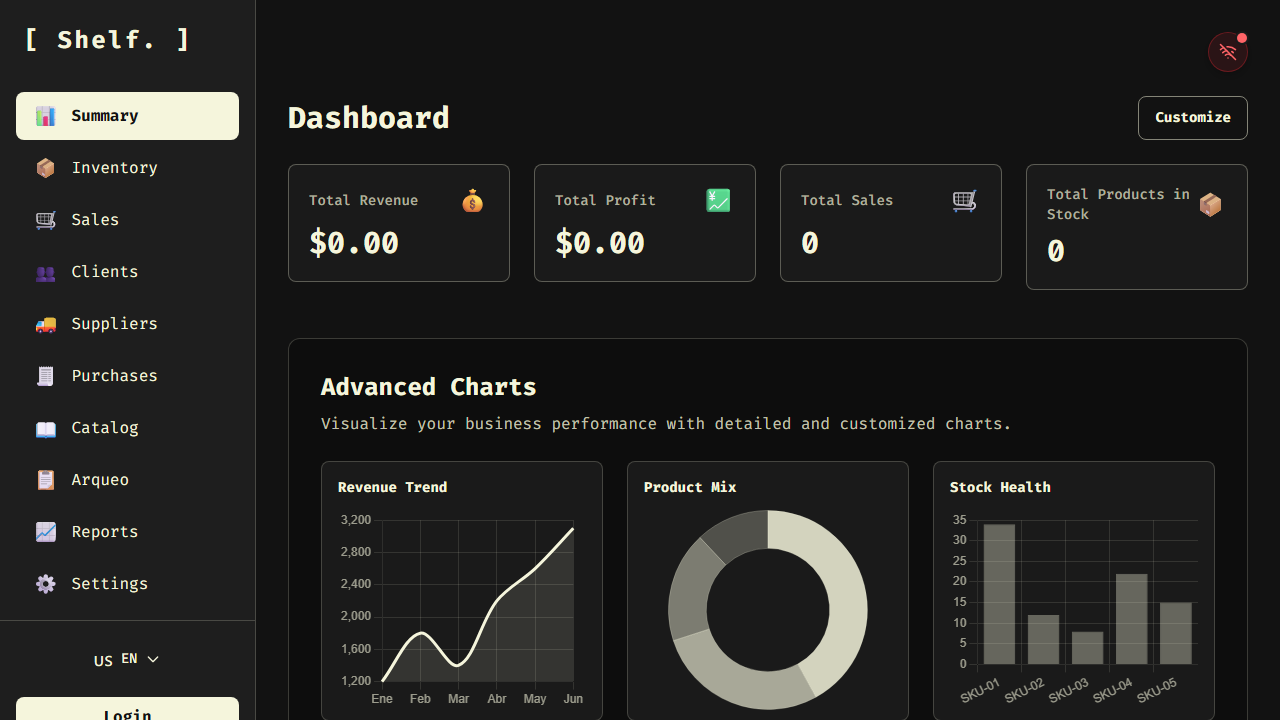
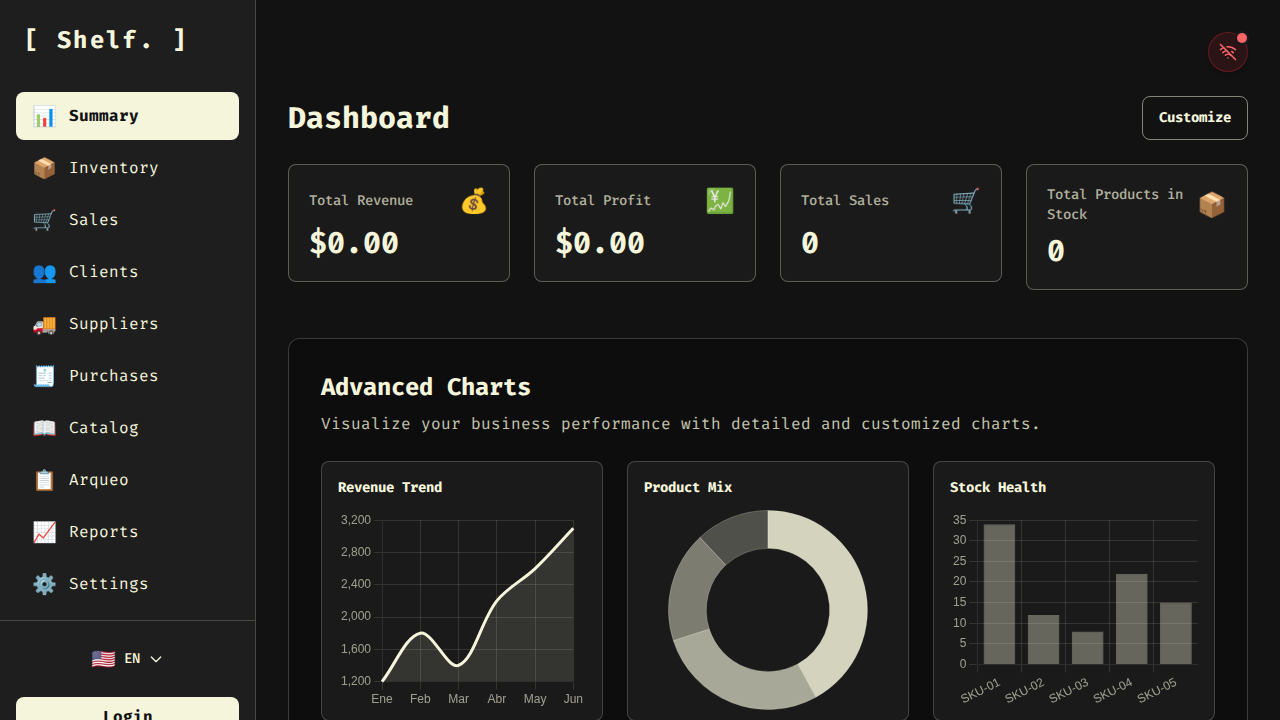
[P2P] Fix destructive SYNC_STATE merge + merge conflicts (#124, #125)
Final merge: smart merge using timestamp-based last-writer-wins + batch operations/sales CRDT sync + isSyncInitialized guard.

diff --git a/apps/shelf-inventory/context/AppContext.tsx b/apps/shelf-inventory/context/AppContext.tsx
@@ -93,6 +93,30 @@ const enrich = (state: AppState, item: any) => ({
   ...item,
 });
 
+const getTimestamp = (item: any): number => {
+  const ts = item.updatedAt || item.timestamp || item.lastSeen || 0;
+  return ts ? new Date(ts).getTime() : 0;
+};
+
+const mergeCollections = <T extends { id: string }>(local: T[], remote: T[] | undefined): T[] => {
+  if (!remote || remote.length === 0) return local;
+  if (local.length === 0) return remote;
+
+  const map = new Map<string, T>();
+  for (const item of local) {
+    map.set(item.id, item);
+  }
+
+  for (const remoteItem of remote) {
+    const localItem = map.get(remoteItem.id);
+    if (!localItem || getTimestamp(remoteItem) > getTimestamp(localItem)) {
+      map.set(remoteItem.id, remoteItem);
+    }
+  }
+
+  return Array.from(map.values());
+};
+
 const appReducer = (state: AppState, action: Action): AppState => {
   let newState: AppState;
 
@@ -345,15 +369,23 @@ const appReducer = (state: AppState, action: Action): AppState => {
       };
     }
 
-    case 'SYNC_STATE':
-      if (action.payload.auditLogs) {
-        console.log(
-          '[DEBUG] SYNC_STATE payload.auditLogs:',
-          action.payload.auditLogs.length,
-          action.payload.auditLogs.map((l: any) => l.action),
-        );
-      }
-      return { ...state, ...action.payload };
+    case 'SYNC_STATE': {
+      const p = action.payload;
+      return {
+        ...state,
+        products: mergeCollections(state.products, p.products),
+        sales: mergeCollections(state.sales, p.sales),
+        clients: mergeCollections(state.clients, p.clients),
+        suppliers: mergeCollections(state.suppliers, p.suppliers),
+        purchaseOrders: mergeCollections(state.purchaseOrders, p.purchaseOrders),
+        auditLogs: mergeCollections(state.auditLogs, p.auditLogs),
+        arqueoSessions: mergeCollections(state.arqueoSessions, p.arqueoSessions),
+        ocrResults: mergeCollections(state.ocrResults, p.ocrResults),
+        peers: mergeCollections(state.peers, p.peers),
+        role: p.role || state.role,
+        permissions: p.permissions || state.permissions,
+      };
+    }
 
     case 'SYNC_ENTITIES': {
       const { collection, items, deletedIds } = action.payload;
@@ -485,8 +517,10 @@ const AppContext = createContext<AppContextType | undefined>(undefined);
 
 export const AppProvider: React.FC<{ children: ReactNode }> = ({ children }) => {
   const [state, rawDispatch, isLoaded] = usePersistedReducer(appReducer, initialState, 'shelfState');
+  const isSyncInitialized = React.useRef(false);
   const stateRef = React.useRef(state);
 
+  // Keep stateRef in sync for the dispatch closure
   useEffect(() => {
     stateRef.current = state;
   }, [state]);
@@ -550,8 +584,9 @@ export const AppProvider: React.FC<{ children: ReactNode }> = ({ children }) => 
 
   // Populate Yjs CRDT once initial state is loaded from IndexedDB
   useEffect(() => {
-    if (isLoaded) {
+    if (isLoaded && !isSyncInitialized.current) {
       dbSync.initWithState(stateRef.current);
+      isSyncInitialized.current = true;
     }
   }, [isLoaded]);
 

diff --git a/packages/p2p-mesh-core/src/database-sync.ts b/packages/p2p-mesh-core/src/database-sync.ts
@@ -86,9 +86,14 @@ class DatabaseSyncManager {
     const yMap = this.getMapForCollection(collectionName);
     if (!yMap) return;
 
+    const getTs = (obj: any) => {
+      const ts = obj.updatedAt || obj.timestamp || obj.lastSeen || 0;
+      return ts ? new Date(ts).getTime() : 0;
+    };
+
     this.doc.transact(() => {
       const existing = yMap.get(item.id);
-      if (!existing || JSON.stringify(existing) !== JSON.stringify(item)) {
+      if (!existing || getTs(item) > getTs(existing)) {
         yMap.set(item.id, item);
       }
     }, 'local');
@@ -121,6 +126,7 @@ class DatabaseSyncManager {
       case 'auditLogs': return this.auditLogs;
       case 'arqueoSessions': return this.arqueoSessions;
       case 'ocrResults': return this.ocrResults;
+      case 'peers': return this.linkedNodes;
       default: return null;
     }
   }
@@ -130,29 +136,26 @@ class DatabaseSyncManager {
    */
   public initWithState(state: AppState) {
     this.doc.transact(() => {
-      const cleanAndSync = <T extends { id: string }>(yMap: Y.Map<T>, array: T[] = []) => {
-        for (const key of yMap.keys()) {
-          yMap.delete(key);
-        }
+      const mergeAndSync = <T extends { id: string }>(collectionName: keyof AppState, array: T[] = []) => {
         if (array) {
           for (const item of array) {
-            yMap.set(item.id, item);
+            this.upsertEntity(collectionName, item);
           }
         }
       };
 
-      cleanAndSync(this.products, state.products);
-      cleanAndSync(this.arqueoSessions, state.arqueoSessions);
-      cleanAndSync(this.ocrResults, state.ocrResults);
-      cleanAndSync(this.sales, state.sales);
-      cleanAndSync(this.clients, state.clients);
-      cleanAndSync(this.suppliers, state.suppliers);
-      cleanAndSync(this.purchaseOrders, state.purchaseOrders);
-      cleanAndSync(this.auditLogs, state.auditLogs);
+      mergeAndSync('products', state.products);
+      mergeAndSync('arqueoSessions', state.arqueoSessions);
+      mergeAndSync('ocrResults', state.ocrResults);
+      mergeAndSync('sales', state.sales);
+      mergeAndSync('clients', state.clients);
+      mergeAndSync('suppliers', state.suppliers);
+      mergeAndSync('purchaseOrders', state.purchaseOrders);
+      mergeAndSync('auditLogs', state.auditLogs);
 
       if (state.peers && state.peers.length > 0) {
         for (const peer of state.peers) {
-          this.linkedNodes.set(peer.id, peer);
+          this.upsertEntity('peers' as any, peer); // Special case for peers/linkedNodes
         }
       }
     }, 'local');
